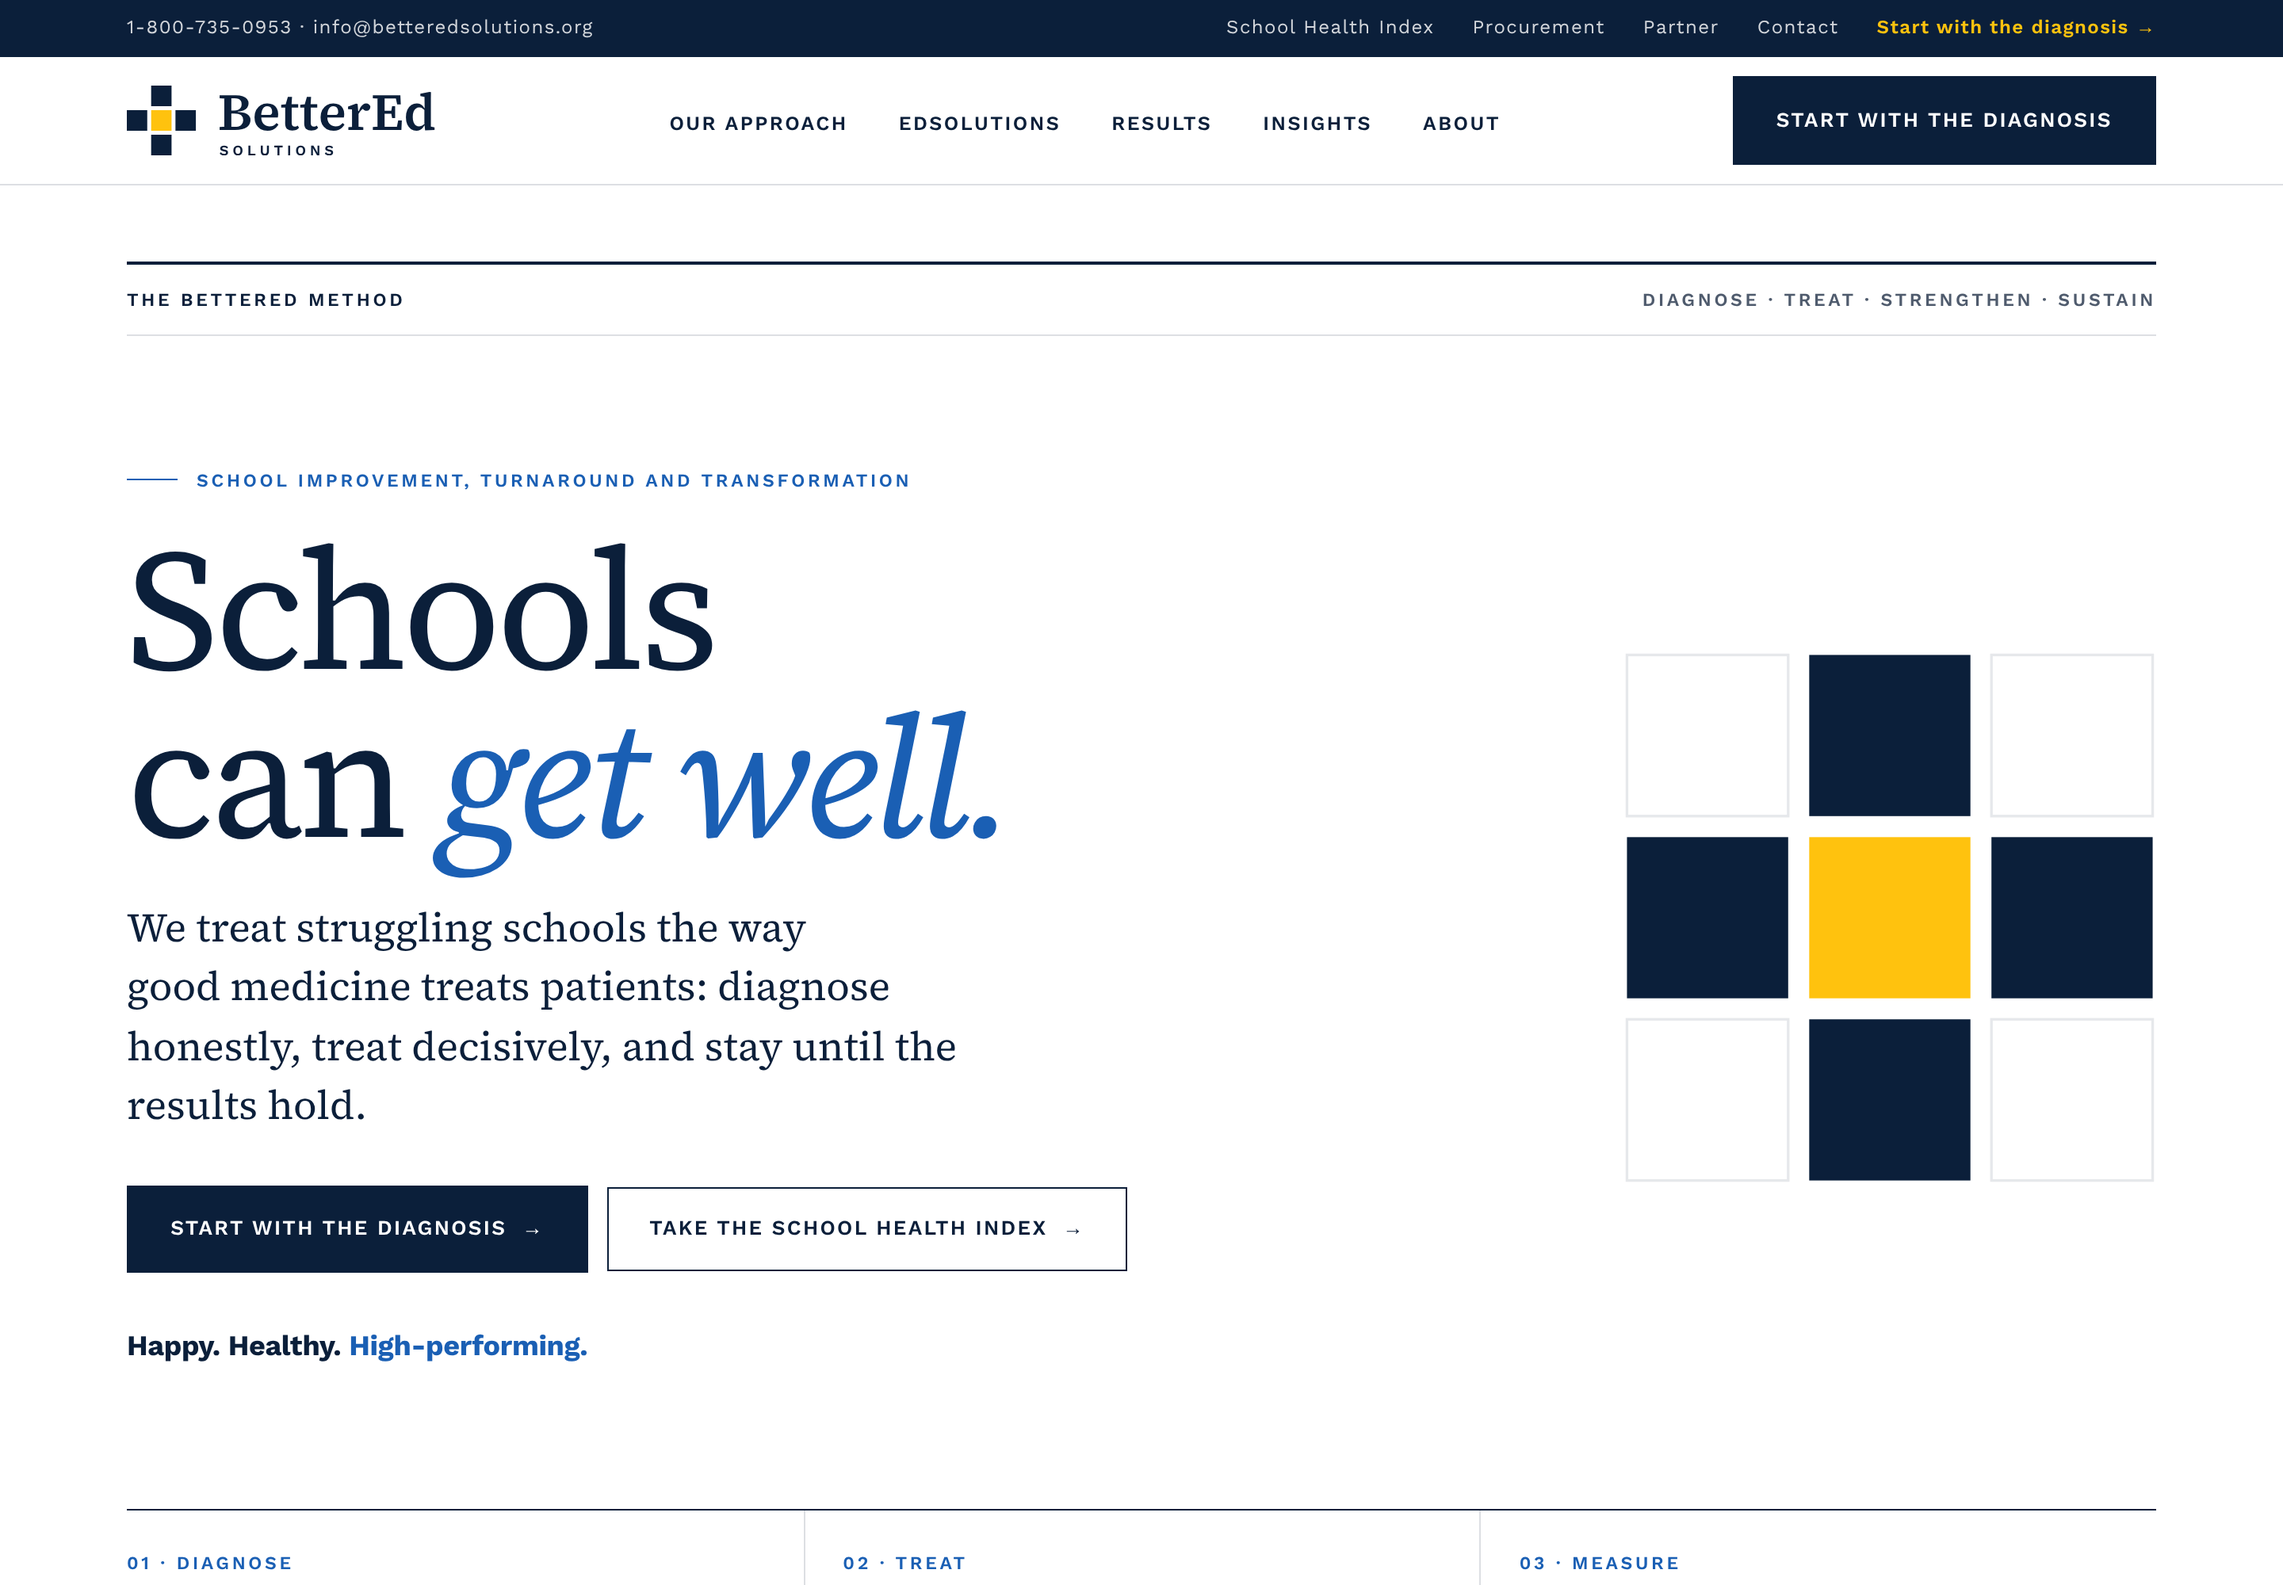
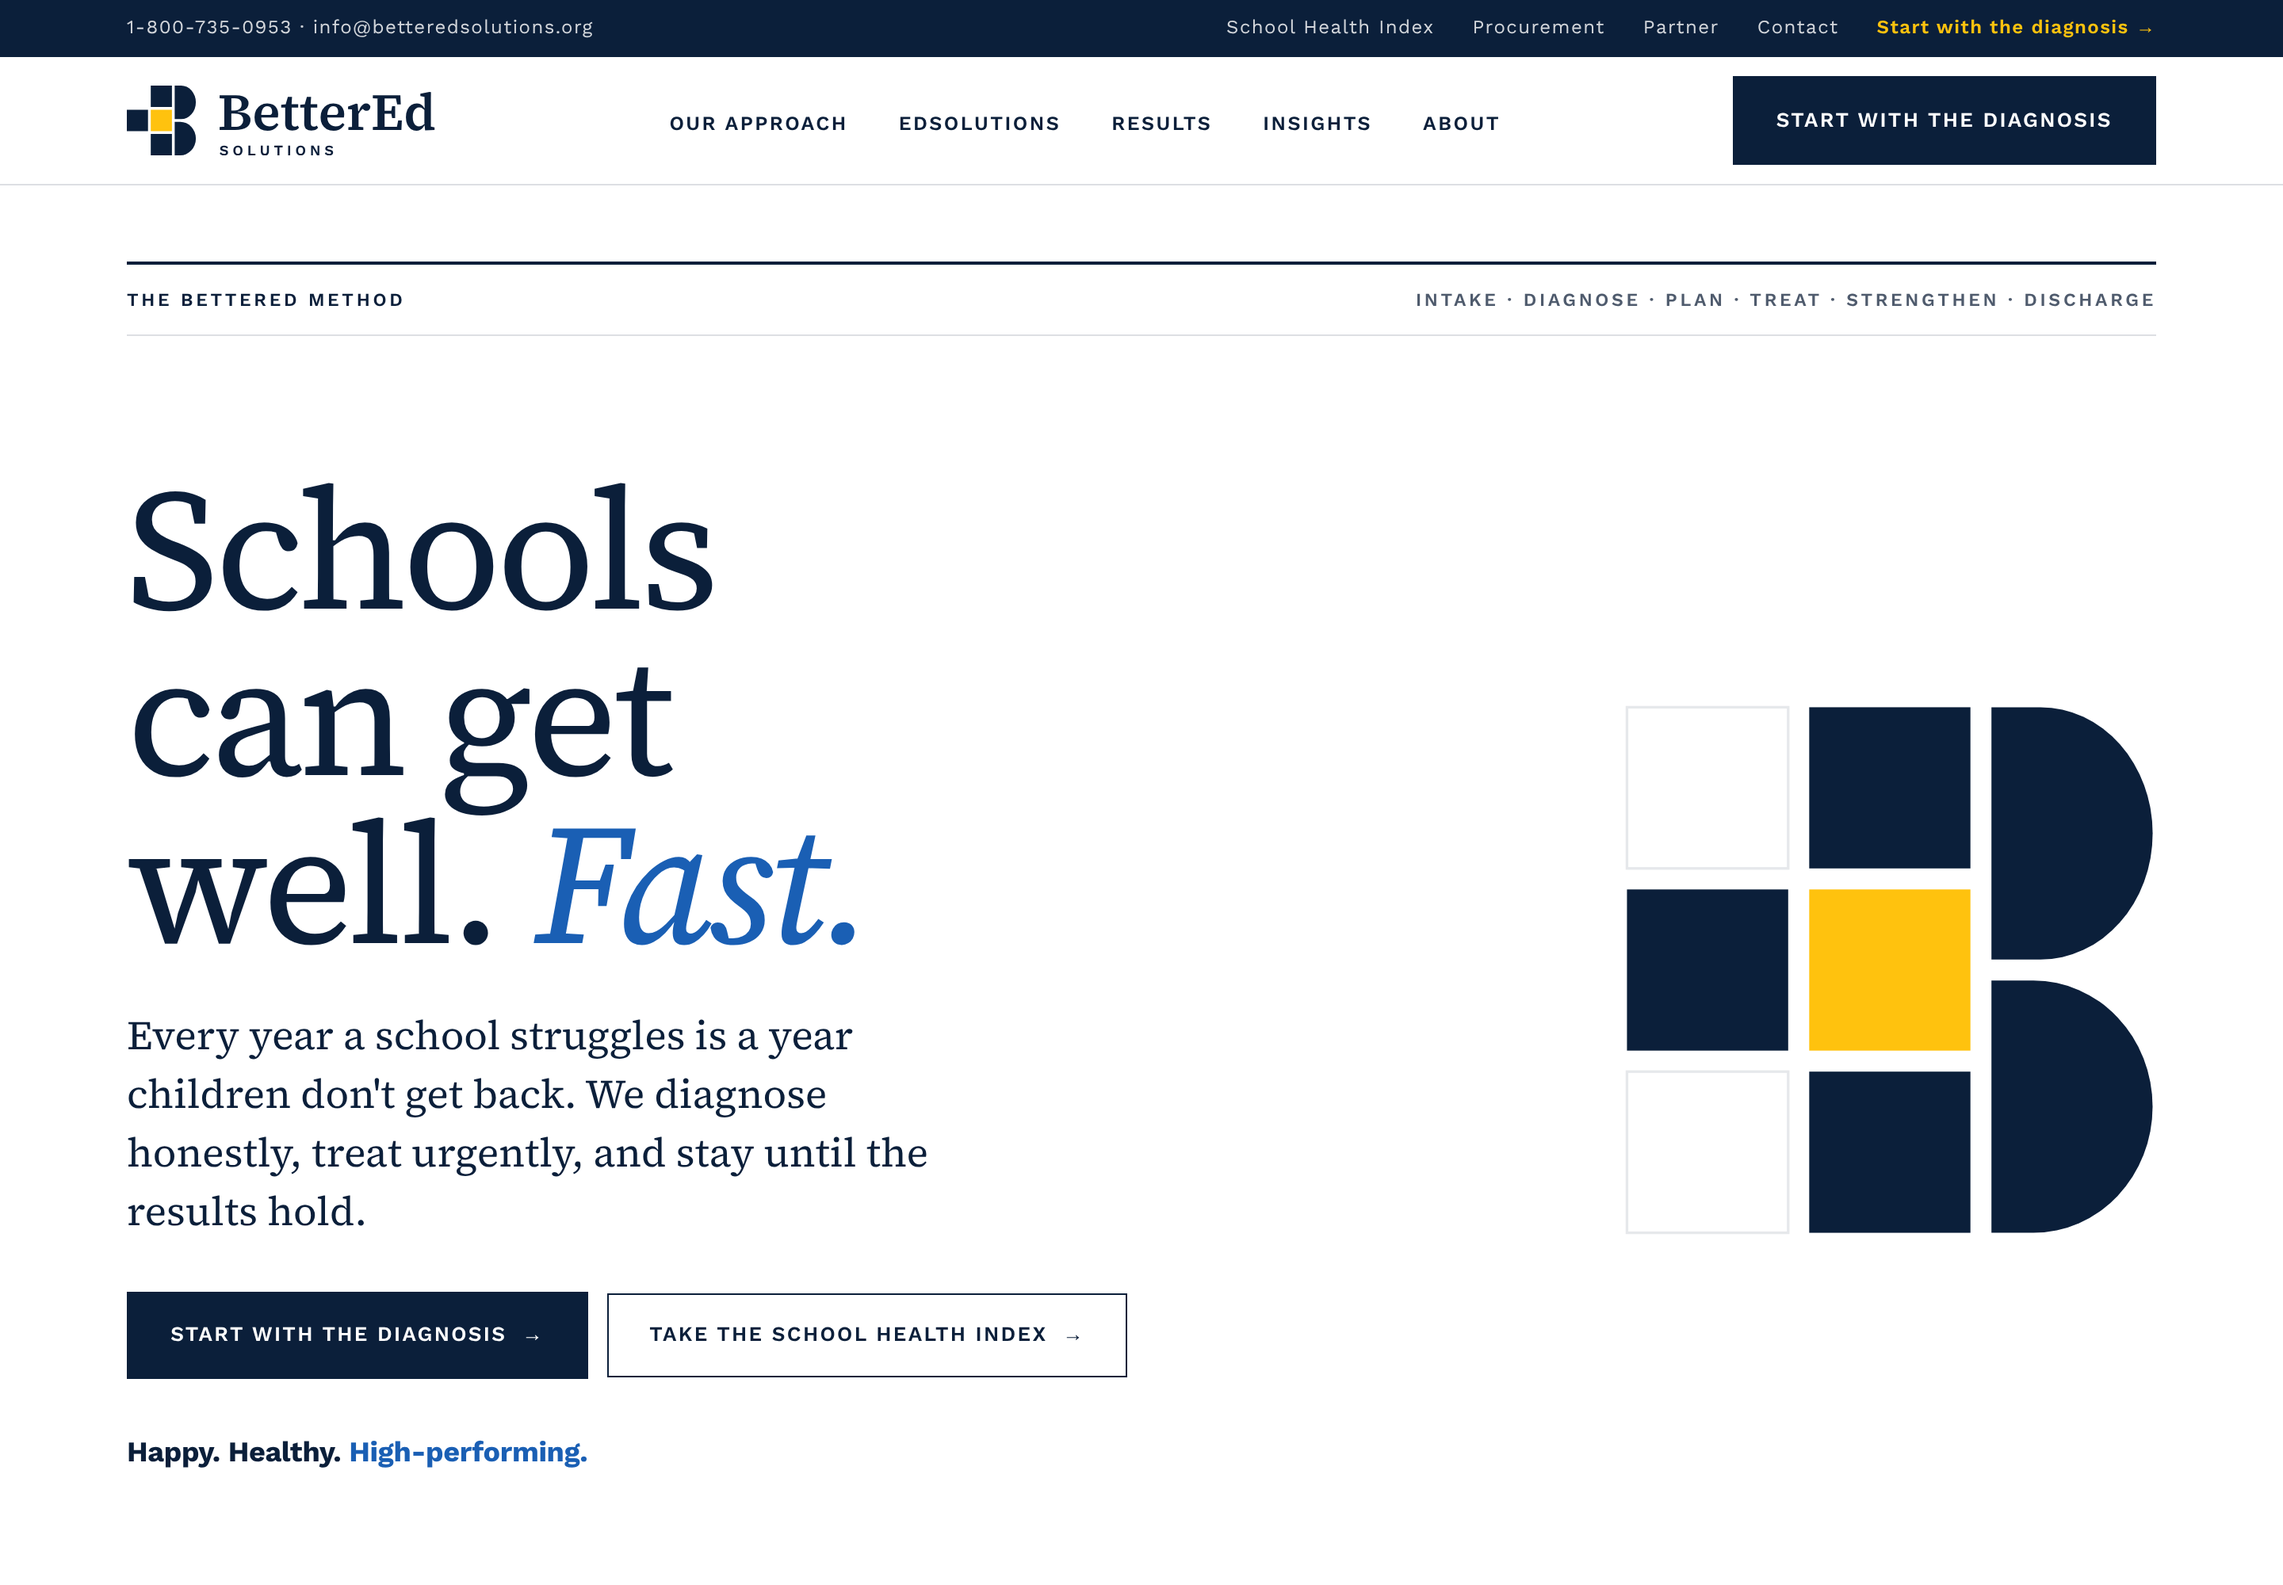
Urgent-care rebrand: B-Cross mark, hospital-style EdSolutions, six-step journey
- Headline: "Schools can get well. Fast." with an urgency subline.
- Rename EdSolutions: School Health (culture & climate), Leader
  Development, Teacher Development, Intensive Care (whole-school
  turnaround). New slugs with permanent redirects from the old ones.
- Approach becomes a six-step patient journey (intake, diagnosis,
  treatment plan, treatment, strengthen, discharge & follow-up) with
  three levels of care; remove the now-duplicate first-month section.
- New B-Cross mark across logo, icons, share image and artwork; add
  the BetterEd Model diagram (one EdSolution per arm, diagnosis at the
  center) to the home and EdSolutions pages.
- Remove eyebrow labels sitewide.

Claude-Session: https://claude.ai/code/session_01MWKqEE8g6MBaBss4JkWWq4

diff --git a/bettered-site/src/assets/styles.css b/bettered-site/src/assets/styles.css
@@ -696,3 +696,59 @@ h3, .h3 { letter-spacing: -.006em; line-height: 1.2; }
 .hero-trace { max-width: 21rem; }
 .stage-strip { height: 6.5rem; max-width: 28rem; }
 .brand img { width: 196px; }
+
+/* =====================================================================
+   v2.2: no eyebrows, six-step journey, BetterEd Model, levels of care
+   ===================================================================== */
+.section-head { gap: var(--s5); }
+.hero .display { max-width: 11ch; }
+
+/* Step numbers replace the old eyebrow labels */
+.step-n { display: block; font-family: var(--serif); font-style: italic; font-size: 1.5rem; line-height: 1; color: var(--harbor); }
+.band-ink .step-n { color: var(--signal); }
+.step h3 { margin-top: var(--s3); }
+.method-spine .labels { grid-template-columns: repeat(2, 1fr); row-gap: .6rem; column-gap: var(--s4); }
+.method-spine .labels b { font-family: var(--serif); font-style: italic; font-weight: 400; letter-spacing: 0; margin-right: .35rem; color: var(--harbor); }
+@media (min-width: 64rem) { .step { min-height: 34vh; } }
+
+/* Solution names with their plain-English descriptions */
+.sol-sub { display: block; font-family: var(--sans); font-size: .9375rem; font-weight: 500; letter-spacing: 0; color: var(--slate); margin-top: .35rem; }
+.band-ink .sol-sub { color: var(--on-ink-2); }
+.sol-name { font-family: var(--serif); font-size: clamp(1.4rem, 1.2rem + .7vw, 1.8rem); line-height: 1.15; margin-bottom: var(--s5); padding-bottom: var(--s4); border-bottom: 1px solid var(--rule); max-width: 32rem; }
+.band-ink .sol-name { border-bottom-color: var(--rule-on-ink); }
+.sol-n { font-style: italic; color: var(--harbor); margin-right: .6rem; }
+.band-ink .sol-n { color: var(--signal); }
+.sol-name .sol-sub { margin-top: .25rem; }
+
+/* The BetterEd Model */
+.model { display: grid; gap: var(--s7); align-items: center; margin-bottom: var(--s8); }
+@media (min-width: 64rem) { .model { grid-template-columns: minmax(0, 30rem) 1fr; gap: var(--s8); } }
+.model-grid { list-style: none; margin: 0; padding: 0; display: grid; grid-template-columns: repeat(3, 1fr); grid-template-areas: ". t ." "l c r" ". b ."; gap: clamp(.4rem, 1vw, .75rem); max-width: 30rem; }
+.model-grid li { aspect-ratio: 1; }
+.model-grid .m-t { grid-area: t; } .model-grid .m-l { grid-area: l; } .model-grid .m-r { grid-area: r; } .model-grid .m-b { grid-area: b; } .model-grid .m-c { grid-area: c; }
+.model-grid a { display: flex; flex-direction: column; justify-content: center; align-items: center; text-align: center; gap: .3rem; height: 100%; padding: .5rem; background: var(--ink); color: var(--white); text-decoration: none; transition: background-color var(--m-fast) var(--e-ui); }
+.model-grid a:hover { background: var(--harbor); color: var(--white); }
+.model-grid .m-c a { background: var(--signal); color: var(--ink); }
+.model-grid .m-c a:hover { background: var(--ink); color: var(--signal); }
+.model-grid .m-n { font-family: var(--serif); font-style: italic; font-size: .9rem; color: var(--signal); line-height: 1; }
+.model-grid .m-name { font-weight: 600; font-size: clamp(.72rem, .6rem + .6vw, 1rem); line-height: 1.2; }
+.model-copy h3 { font-size: var(--fs-h3); }
+.model-copy p { color: var(--slate); max-width: 46ch; }
+
+/* Levels of care */
+.care-levels { list-style: none; margin: 0; padding: 0; display: grid; gap: 0; border-top: 1px solid var(--ink); }
+@media (min-width: 64rem) { .care-levels { grid-template-columns: repeat(3, 1fr); } .care-levels li + li { border-left: 1px solid var(--rule); padding-left: var(--s6); } }
+.care-levels li { padding: var(--s6) var(--s6) var(--s6) 0; border-bottom: 1px solid var(--rule); display: flex; flex-direction: column; gap: var(--s3); }
+@media (min-width: 64rem) { .care-levels li { border-bottom: 0; } }
+.care-n { font-family: var(--serif); font-style: italic; font-size: 1.5rem; color: var(--harbor); line-height: 1; }
+.care-levels .is-intensive .care-n { color: var(--pulse); }
+.care-levels p { color: var(--slate); }
+.care-link { margin-top: auto; }
+
+/* Structural labels that used to borrow the eyebrow style */
+.stage-title { font-family: var(--serif); font-size: 1.35rem; font-weight: 400; color: var(--ink); }
+.stage-strip { max-width: 36rem; }
+.stage-strip .t { font-size: .65rem; letter-spacing: .08em; }
+.stage-strip { grid-template-columns: repeat(6, 1fr); gap: var(--s2); }
+.stage-strip { grid-template-columns: repeat(6, minmax(0, 1fr)); }
+@media (max-width: 40rem) { .stage-strip .t { display: none; } .stage-strip { height: 5rem; } }

diff --git a/bettered-site/src/assets/main.js b/bettered-site/src/assets/main.js
@@ -163,7 +163,7 @@
     var type = params.get('type');
     var sel = form.querySelector('#f-type');
     if (type && sel) {
-      var map = { diagnostic: 'Start with the diagnosis', shi: 'School Health Index', culture: 'Culture & Climate', leadership: 'Leadership Development', educator: 'Educator Development', turnaround: 'Whole-School Turnaround', partnership: 'Partnership', procurement: 'Procurement', other: 'Other' };
+      var map = { diagnostic: 'Start with the diagnosis', shi: 'School Health Index', culture: 'School Health', leadership: 'Leader Development', educator: 'Teacher Development', turnaround: 'Intensive Care', partnership: 'Partnership', procurement: 'Procurement', other: 'Other' };
       if (map[type]) sel.value = map[type];
     }
     var startedField = form.querySelector('[name="started_at"]');

diff --git a/bettered-site/api/contact.js b/bettered-site/api/contact.js
@@ -3,7 +3,7 @@
 // Returns { ok: true } ONLY when the email provider accepted the message. Never fakes success.
 // Env: RESEND_API_KEY (required), CONTACT_TO (default info@betteredsolutions.org), CONTACT_FROM (verified sender)
 
-const TYPES = ['Start with the diagnosis', 'School Health Index', 'Culture & Climate', 'Leadership Development', 'Educator Development', 'Whole-School Turnaround', 'Partnership', 'Procurement', 'Other'];
+const TYPES = ['Start with the diagnosis', 'School Health Index', 'School Health', 'Leader Development', 'Teacher Development', 'Intensive Care', 'Partnership', 'Procurement', 'Other'];
 const LIMITS = { name: 120, email: 200, organization: 200, role: 120, message: 4000 };
 const hits = new Map(); // per-instance; pair with Vercel Firewall rate limiting in production
 

diff --git a/bettered-site/README.md b/bettered-site/README.md
@@ -31,7 +31,10 @@ docs/                      phase deliverables (registers, red teams, strategy, d
 ## Content editing
 
 - Page copy lives in `src/content/site.mjs`. Change text there, run the build.
-- EdSolutions must stay in this order: Culture & Climate, Leadership Development, Educator Development, Whole-School Turnaround. The array order is the display order everywhere.
+- EdSolutions must stay in this order: School Health (culture & climate), Leader Development, Teacher Development, Intensive Care (whole-school turnaround). The array order is the display order everywhere, and each has a `sub` line that always appears with the name.
+- The method is six steps: Intake, Diagnosis, Treatment plan, Treatment, Strengthen, Discharge & follow-up (`method` in `site.mjs`).
+- The headline is "Schools can get well. Fast." Urgency is a brand value; do not attach a specific timeline unless the founder supplies one.
+- No eyebrow labels above headings: `kicker()` is a no-op.
 - The tagline is exactly "Happy. Healthy. High-performing." — it is rendered by `tagline()` in `lib.mjs`; do not retype it.
 - Say "teachers", never "guides". Write "MASTERY", never "M.A.S.T.E.R.Y.".
 
@@ -78,7 +81,8 @@ Never commit keys. `.env*` files are git-ignored.
 
 ## Brand system
 
-- **Mark:** the Diagnostic Cross. Four navy blocks (one per EdSolution) around a gold core (the diagnosis). `crossArt()` in `lib.mjs` draws it as artwork; the blocks assemble in order, the school getting better. Logo files in `src/assets/` are outlined SVGs generated from the brand fonts, so they render identically everywhere.
+- **Mark:** the B-Cross. A medical cross whose right arm forms the two bowls of a B, with a gold core (the diagnosis). `crossArt()` in `lib.mjs` draws it as artwork; the blocks assemble in order, the school getting better.
+- **The BetterEd Model:** the plain cross as a diagram, one EdSolution per arm and the diagnosis at the center (`modelFigure()` in `pages.mjs`). Use it on pages and in decks, never as the logo. Logo files in `src/assets/` are outlined SVGs generated from the brand fonts, so they render identically everywhere.
 - **Type:** Source Serif 4 for headlines and reading text, Work Sans for interface text (SIL OFL 1.1, self-hosted in `src/assets/fonts/`).
 - **Color:** Navy `#0B1F3A`, Harbor `#1A5FB4`, Signal `#FFC20E`, Paper `#F6F4EE`. Accent points are squares, matching the mark.
 - After changing the logo, run `node scripts/gen-images.mjs` to regenerate `og-default.png` and `apple-touch-icon.png`.
